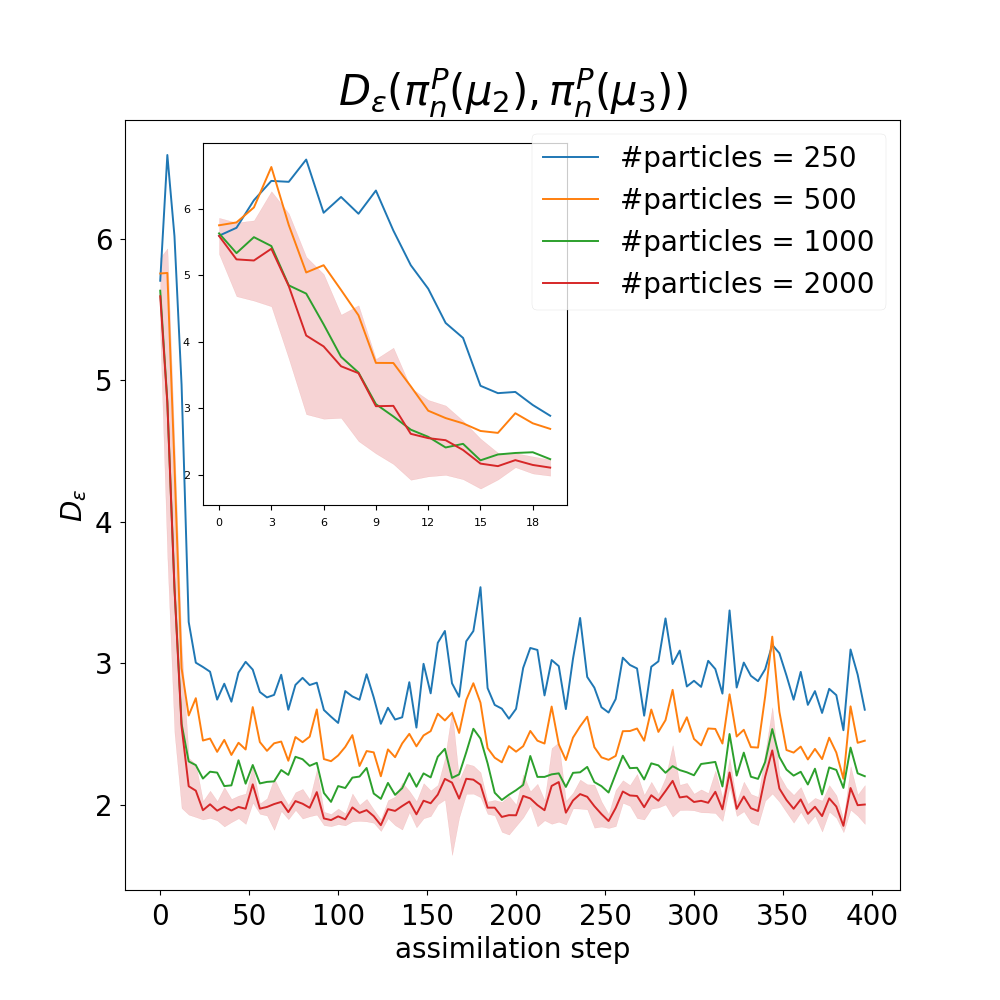
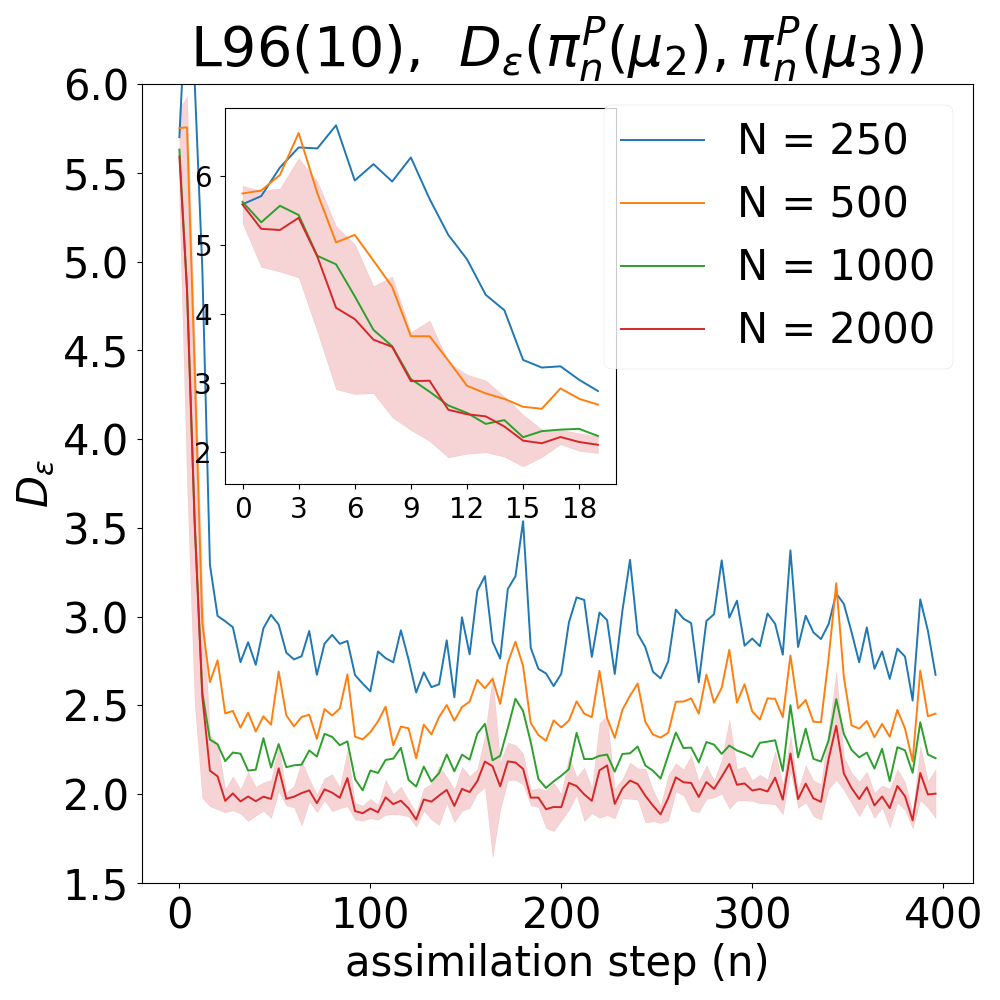
added readme

diff --git a/experiments/enkf_plot.py b/experiments/enkf_plot.py
@@ -22,30 +22,46 @@ id_ = 0
 config_folder = '../configs/{}_pc_{}'.format(id_, particle_count)
 results_folder = 'results/{}_pc_{}'.format(id_, particle_count)
 enkf_folder = 'enkf_results'
-dist_folder = 'enkf_dists/{}_pc_{}'.format(id_, particle_count)
+ee_dist = 'ee_dists/50_vs_200'
+dist_folder = 'enkf_dists/{}_pc_{}'.format(id_, 2000)
+bpf_dist_folder = 'bpf_dists/{}'.format(id_)
 cov_folder = 'cov/{}_pc_{}'.format(id_, particle_count)
 ev_time = 400
 gap = 4
+#colors = ['royalblue', 'darkorange', 'darkgreen', 'r']
 
 with plt.style.context('seaborn-paper'):
+    prop_cycle = plt.rcParams['axes.prop_cycle']
+    colors = prop_cycle.by_key()['color']
     fig = plt.figure(figsize=(10, 10))
     ax = fig.add_subplot(111)
-    ax.tick_params(axis='both', which='major', labelsize=20)
-    ax.tick_params(axis='both', which='minor', labelsize=20)
+    ax.tick_params(axis='both', which='major', labelsize=30)
+    ax.tick_params(axis='both', which='minor', labelsize=30)
     for i, config in enumerate(sorted(os.listdir(config_folder))):
         config = config[:-5]
         df = pd.read_csv(dist_folder + '/{}.csv'.format(config))
-        sns.lineplot(data=df, x=df['time'], y=df['sinkhorn_div'], ci=None, ax=ax, label='$\mu_{}$'.format(config.split('_')[-1]))
-    """
+        sns.lineplot(data=df, x=df['time'], y=df['sinkhorn_div'], ci=None, color=colors[i], ax=ax, label='i={}'.format(config.split('_')[-1]))
+        #, label='i={}, X=E, N=200'.format(config.split('_')[-1]))
+    
     for i, config in enumerate(sorted(os.listdir(config_folder))):
         config = config[:-5]
-        df_cov = pd.read_csv(cov_folder + '/{}.csv'.format(config))
-        sns.lineplot(data=df, x=df_cov['time'], y=np.sqrt(df_cov['eigh']), ci=None, ax=ax,\
-                     label='sqrt of avg largest ev for BPF {} for im '.format(particle_count) + config.split('_')[-1],\
+        y = np.average(np.load(ee_dist + '/{}.npy'.format(config)), axis=1)
+        x = list(range(0, ev_time, gap))
+        data = {'time': x, 'sinkhorn_div': y}
+        df = pd.DataFrame(data)
+        sns.lineplot(data=df, x=df['time'], y=df['sinkhorn_div'], ci=None, color=colors[i], ax=ax, linestyle='dashed')
+
+
+    for i, config in enumerate(sorted(os.listdir(config_folder))):
+        config = config[:-5]
+        df_pf = pd.read_csv(bpf_dist_folder + '/{}_{}_{}_vs_2000.csv'.format(id_, config, particle_count))
+        sns.lineplot(data=df_pf, x=df_pf['time'], y=df_pf['sinkhorn_div'], ci=None, color=colors[i], ax=ax,\
+                     #label='i={}, X=P, N=250'.format(config.split('_')[-1]),\
                      linestyle='dotted')
-    """
-    plt.xlabel('assimilation step', fontsize=20)
-    plt.ylabel('$D_\epsilon$', fontsize=20)
-    plt.title('$D_\epsilon(\pi^P_n(\mu), \pi^E_n(\mu))$', fontsize=30)
+    
+    plt.xlabel('assimilation step (n)', fontsize=30)
+    plt.ylabel('$D_\epsilon$', fontsize=30)
+    plt.title('$L96 (10),  D_\epsilon(\pi^{X, N}_n(\mu_i), \pi^{Y, M}_n(\mu_i))$', fontsize=40)
     plt.legend(fontsize=20)
-    plt.savefig('plots/enkf/enkf_{}_vs_bpf_{}.png'.format(200, particle_count))
+    plt.tight_layout()
+    plt.savefig('plots/enkf/distance between different filters.png'.format(200, particle_count))

diff --git a/modules/batch_expr.py b/modules/batch_expr.py
@@ -153,15 +153,18 @@ class AvgDistPlotter:
         self.line_styles = [':', '-.', '--', '-']
         
 
-    def plot(self, save_path, gap=4, ev_time=400, low_idx=0, high_idx=None, pc_idx=None, inset=False, ev_time2=20):
+    def plot(self, save_path, gap=4, ev_time=400, low_idx=0, high_idx=None, pc_idx=None, inset=False, ev_time2=20, y_lims=[None, None]):
         with plt.style.context('seaborn-paper'): # 'tableau-colorblind10'
             fig = plt.figure(figsize=(10, 10))
             ax = fig.add_subplot(111)
-            ax.tick_params(axis='both', which='major', labelsize=20)
-            ax.tick_params(axis='both', which='minor', labelsize=20)
+            ax.tick_params(axis='both', which='major', labelsize=30)
+            ax.tick_params(axis='both', which='minor', labelsize=30)
+            ax.set_ylim([y_lims[0], y_lims[1]])
             if inset:
                 ax_inset = ax.inset_axes([0.1, 0.5, 0.47, 0.47])
                 ax_inset.xaxis.set_major_locator(MaxNLocator(integer=True))
+                ax_inset.tick_params(axis='both', which='major', labelsize=20)
+                ax_inset.tick_params(axis='both', which='minor', labelsize=20)
             if pc_idx is None:
                 pc_idx = list(range(len(self.particle_counts)))
             k = 0
@@ -176,7 +179,7 @@ class AvgDistPlotter:
                 for i, f in enumerate(dist_files[low_idx: high_idx]):
                     df = pd.read_csv(self.dist_folder + '/' + folder + '/' + f)
                     df = df.loc[df['time'].isin([k for k in range(0, ev_time, gap)])]
-                    label = '#particles = {}'.format(self.particle_counts[j])
+                    label = 'N = {}'.format(self.particle_counts[j])
                     # set confidence interval
                     if j < len(self.folders) - 1:
                         ci = None
@@ -192,18 +195,17 @@ class AvgDistPlotter:
                         df_inset = pd.read_csv(self.inset_dist_folder + '/' + folder + '/' + f)
                         df_inset = df_inset.loc[df_inset['time'].isin([k for k in range(ev_time2)])]
                         sns.lineplot(data=df_inset, x=df_inset['time'], y=df_inset['sinkhorn_div'], ci=ci, ax=ax_inset)
-                        ax_inset.set_xlabel('', fontsize=20)
-                        ax_inset.set_ylabel('', fontsize=20)
+                        ax_inset.set_xlabel('', fontsize=30)
+                        ax_inset.set_ylabel('', fontsize=30)
                         
                 k += 1
-            plt.xlabel('assimilation step', fontsize=20)
-            plt.ylabel('$D_{\epsilon}$', fontsize=20)
+            plt.xlabel('assimilation step (n)', fontsize=30)
+            plt.ylabel('$D_{\epsilon}$', fontsize=30)
             id_1, _,  id_2 = f.split('.')[0].split('_')
-            plt.title('$D_\epsilon(\pi_n^P(\mu_{}), \pi_n^P(\mu_{}))$'.format(id_1, id_2), fontsize=30)
-            plt.legend(fontsize=20)
+            plt.title('L96(10),  $D_\epsilon(\pi_n^P(\mu_{}), \pi_n^P(\mu_{}))$'.format(id_1, id_2), fontsize=40)
+            plt.legend(fontsize=30)
+            plt.tight_layout()
             plt.savefig(save_path)
-
-
 
 
 class BatchCov:

diff --git a/experiments/batch_plot.py b/experiments/batch_plot.py
@@ -20,4 +20,4 @@ for id_ in [0, 1]:
         file_path = 'plots/{}/dist_{}.png'.format(id_, fnames[low_idx])
         # plot distances
         batch_plotter = be.AvgDistPlotter(dist_folder, initial_dist_folder)
-        batch_plotter.plot(file_path, gap=4, ev_time=400, low_idx=low_idx, high_idx=high_idx, pc_idx=pc_idx, inset=True)
+        batch_plotter.plot(file_path, gap=4, ev_time=400, low_idx=low_idx, high_idx=high_idx, pc_idx=pc_idx, inset=True, y_lims=[1.5,6.0])

diff --git a/experiments/bpf_plot.py b/experiments/bpf_plot.py
@@ -42,4 +42,5 @@ with plt.style.context('seaborn-paper'):
     plt.ylabel('$D_\epsilon$', fontsize=20)
     plt.title('distance between particle filters with different number of particles', fontsize=20)
     plt.legend(fontsize=20)
+    plt.tight_layout()
     plt.savefig('plots/enkf/bpf_{}_vs_bpf_{}.png'.format(particle_count_0, particle_count_1))
